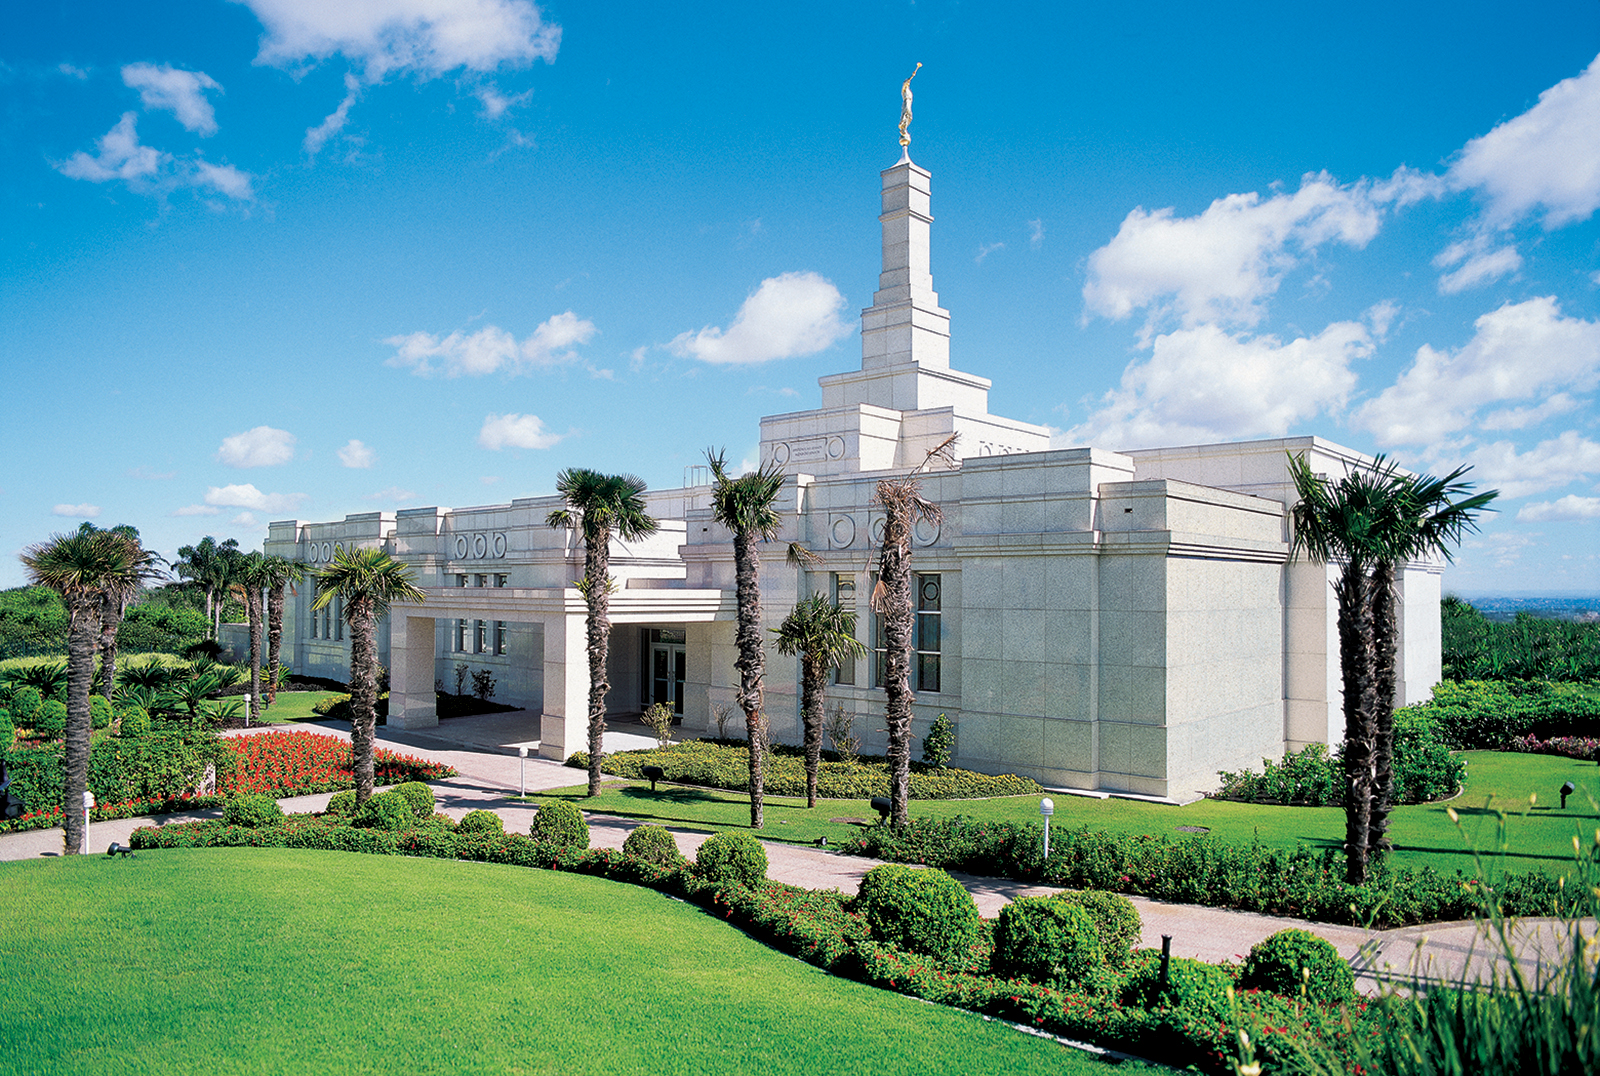
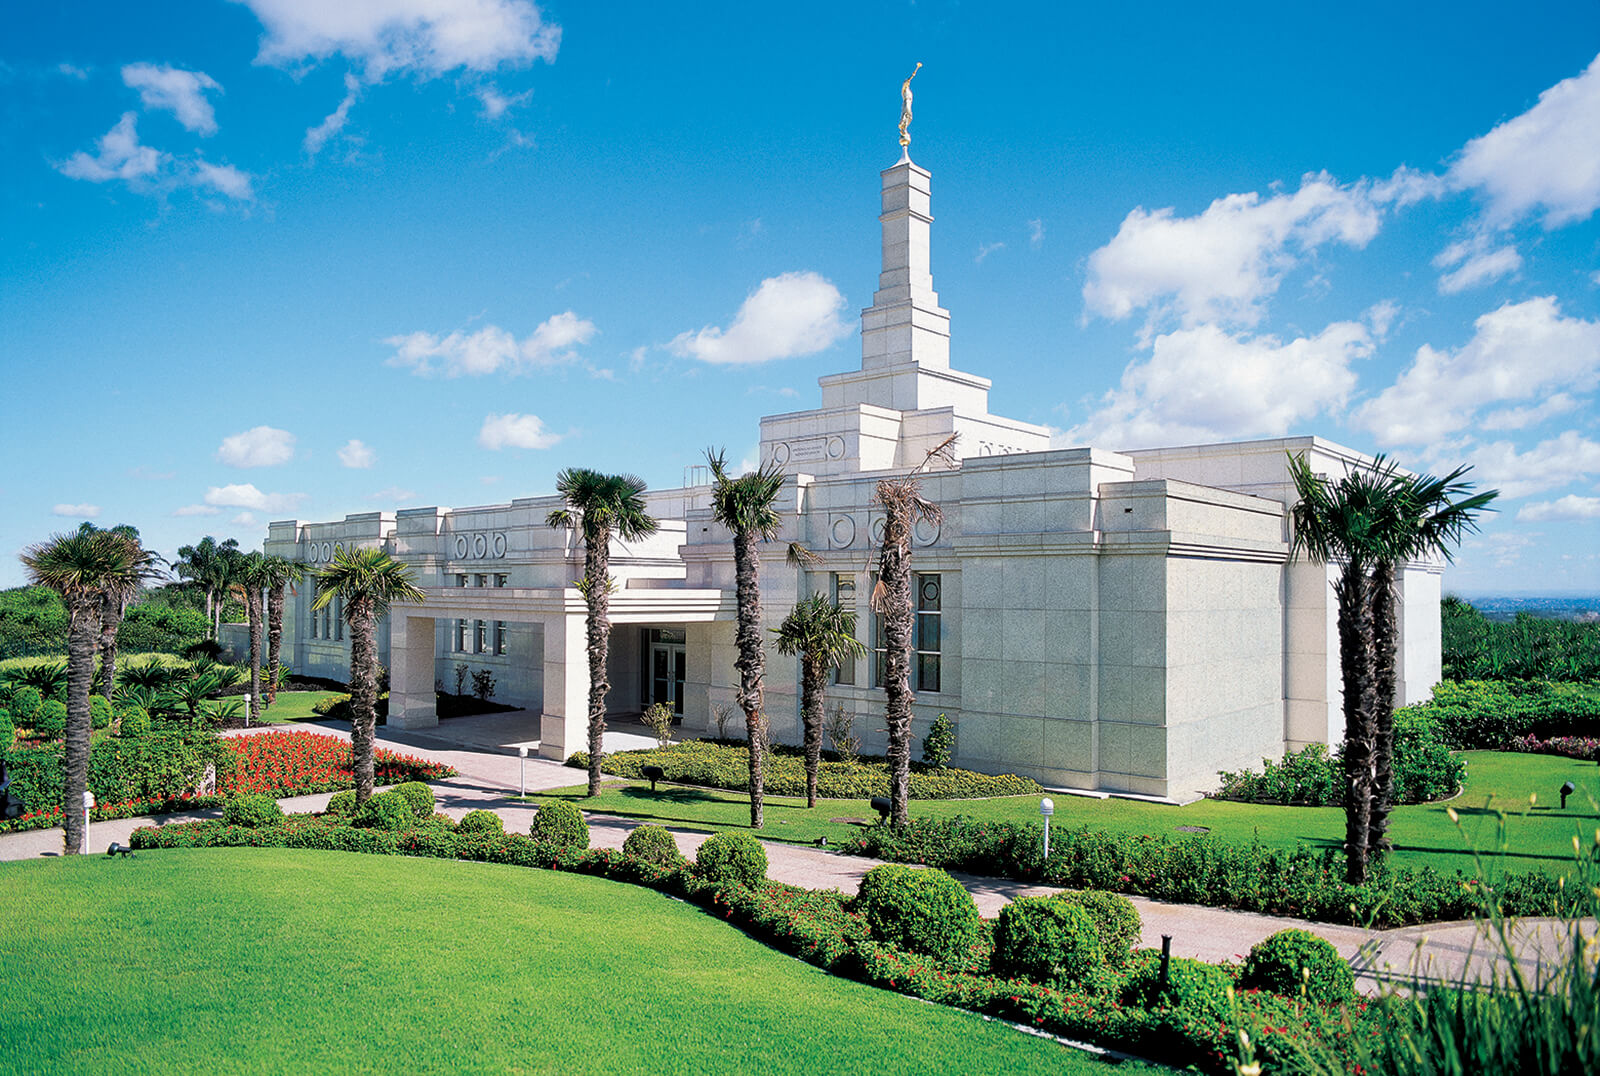
Arualizado o site com novas imagens e informações sobre os templos.

diff --git a/templos.html b/templos.html
@@ -5,11 +5,12 @@
     <meta name="viewport" content="width=device-width, initial-scale=1.0">
     <title>Álbum do Templo</title>
     <meta name="description" content="Álbum de fotos de templos religiosos ao redor do mundo para a disciplina WDD 131.">
+    <meta name="author" content="Najara Carmo">
     <link rel="preconnect" href="https://fonts.googleapis.com">
     <link rel="preconnect" href="https://fonts.gstatic.com" crossorigin>
     <link href="https://fonts.googleapis.com/css2?family=Montserrat:wght@400;600&family=Open+Sans&display=swap" rel="stylesheet">
     <link rel="stylesheet" href="estilos/templos.css">
-    <link rel="stylesheet" href="estilos/templos-grandes.css" media="min-width: 768px">
+    <link rel="stylesheet" href="estilos/templos-grande.css" media="min-width: 768px">
     <script src="scripts/templos.js" defer></script>
 </head>
 <body>
@@ -20,11 +21,11 @@
         </div>
         <nav>
             <ul id="nav-menu">
-                <li><a href="#" class="active">Página Inicial</a></li>
-                <li><a href="#">Antigo</a></li>
-                <li><a href="#">Novo</a></li>
-                <li><a href="#">Grande</a></li>
-                <li><a href="#">Pequeno</a></li>
+                <li><a href="#" class="active">Home</a></li>
+                <li><a href="#">Old</a></li>
+                <li><a href="#">New</a></li>
+                <li><a href="#">Large</a></li>
+                <li><a href="#">Small</a></li>
             </ul>
         </nav>
     </header>
@@ -72,7 +73,7 @@
     </main>
 
     <footer>
-        <p>&copy; <span id="currentyear"></span> | Álbum do Templo | Carmo</p>
+        <p>&copy; <span id="currentyear"></span> | Álbum do Templo | Najara Carmo</p>
         <p class="last-modified">Última modificação: <span id="lastModified"></span></p>
     </footer>
 </body>